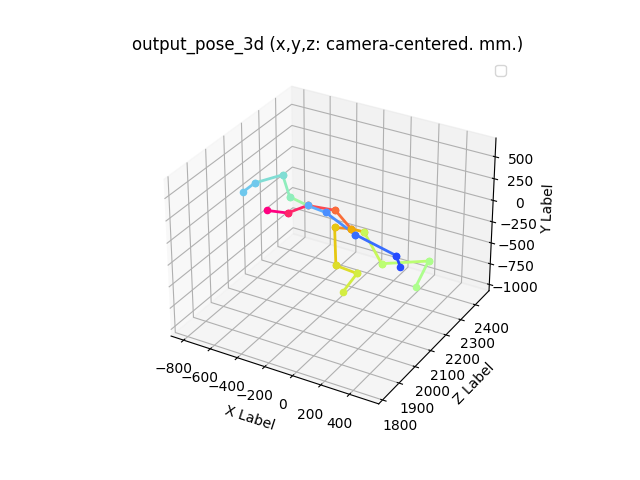
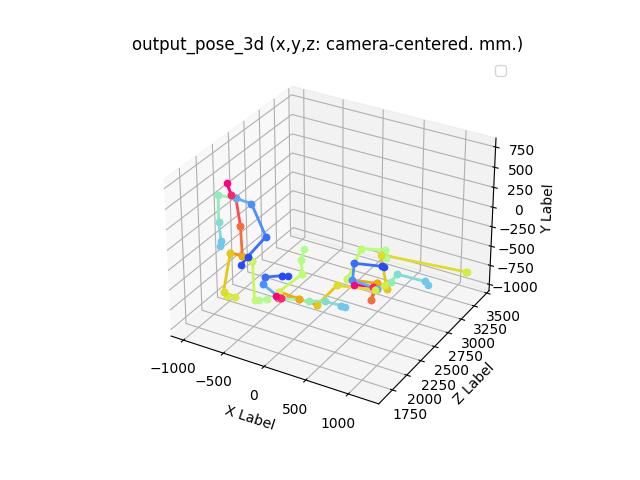
replaced detectron2 model with torchvision model, now much faster wow

Changed region(s): [[0.25, 0.1875, 0.8438, 0.9062], [0.375, 0.8125, 0.5625, 0.9062], [0.25, 0.75, 0.375, 0.8125]]

diff --git a/faster_rcnn_example.py b/faster_rcnn_example.py
@@ -1,12 +1,5 @@
 import cv2
-# import mediapipe as mp
-
-import detectron2
-from detectron2 import model_zoo
-from detectron2.engine import DefaultPredictor
-from detectron2.config import get_cfg
-from detectron2.utils.visualizer import Visualizer
-from detectron2.data import MetadataCatalog, DatasetCatalog
+import mediapipe as mp
 
 import math
 import time
@@ -31,7 +24,6 @@ from posenet.main.config import cfg as posenet_cfg
 from posenet.main.model import get_pose_net 
 from posenet.data.dataset import generate_patch_image
 from posenet.common.utils.pose_utils import process_bbox, pixel2cam
-from posenet.common.utils.vis import vis_keypoints, vis_3d_multiple_skeleton, vis_3d_multiple_skeleton_no_show_but_savefig
 
 import matplotlib.pyplot as plt
 
@@ -45,28 +37,31 @@ from rootnet.main.model import get_pose_net as get_root_net
 from rootnet.common.utils.pose_utils import process_bbox as rootnet_process_bbox
 from rootnet.data.dataset import generate_patch_image as rootnet_generate_patch_image
 
+import torchvision
 
+from posenet.common.utils.vis import vis_keypoints, vis_3d_multiple_skeleton, vis_3d_multiple_skeleton_no_show_but_savefig
+
+
+
+# import tensorflow_hub as hub
+# import tensorflow as tf
 
 def main():
     """
     Camera Distance-aware Top-down Approach for 3D Multi-person PoseEstimation from a Single RGB Image
     """
 
+    
 
-    model_yaml = "COCO-Detection/faster_rcnn_R_50_FPN_1x.yaml"
+    device = torch.device('cuda') if torch.cuda.is_available() else torch.device('cpu')
+    detector_model = torchvision.models.detection.fasterrcnn_mobilenet_v3_large_320_fpn(pretrained=True, pretrained_backbone=True)
+    detector_model.eval().to(device)
 
-    score_threshold = 0.65
+    detector_score_threshold = 0.8
+    detector_transform = transforms.Compose([
+        transforms.ToTensor(),
+    ])
 
-    bbox_cfg = get_cfg()   # get a fresh new config
-    bbox_cfg.merge_from_file(model_zoo.get_config_file(model_yaml))
-    bbox_cfg.MODEL.ROI_HEADS.SCORE_THRESH_TEST = score_threshold  # set threshold for this model
-    bbox_cfg.MODEL.WEIGHTS = model_zoo.get_checkpoint_url(model_yaml)
-    predictor = DefaultPredictor(bbox_cfg)
-
-
-    class_label_names = MetadataCatalog.get(bbox_cfg.DATASETS.TRAIN[0]).thing_classes
-
-    # python demo.py --gpu 0 --test_epoch 24
 
 
     def parse_args():
@@ -111,6 +106,7 @@ def main():
     model.load_state_dict(ckpt['network'])
     model.eval()
 
+
     # snapshot load rootnet
     model_path_rootnet = rootnet_path + '/demo/snapshot_%d.pth.tar' % int(18)
     assert osp.exists(model_path_rootnet), 'Cannot find model at ' + model_path_rootnet
@@ -141,34 +137,32 @@ def main():
     cap = cv2.VideoCapture(0)
     while cap.isOpened():
         
+        # print("+++++++++++++++++")
         
         success, original_img = cap.read()
         if not success:
             print("Webcam failed somehow?")
             continue
 
+
+        whole_time = time.time()
+
         # get bboxes
         boxes_time = time.time()
         
-        outputs = predictor(original_img)
-        output_fields = outputs['instances'].get_fields()
-        pred_boxes = output_fields['pred_boxes']
-        pred_scores = output_fields['scores']
-        pred_classes = output_fields['pred_classes'].cpu().numpy()
-        human_pred_boxes = pred_boxes[pred_classes==0]
 
-        print("boxes_time", time.time() - boxes_time)
-        
+        model_input = detector_transform(original_img).unsqueeze(0).to(device)
+        outputs = detector_model(model_input)
+    
+        pred_scores = outputs[0]['scores'].cpu().detach().numpy()
+        pred_bboxes = outputs[0]['boxes'].cpu().detach().numpy()
+        bbox_list = pred_bboxes[pred_scores >= detector_score_threshold]
 
         pose_time = time.time()
 
-        bbox_list = human_pred_boxes.tensor.cpu().numpy()
 
-        # root_depth_list = [12000] * len(bbox_list)
 
-        
-        
-        
+
         # calculate roots
         person_num = len(bbox_list)
         root_depth_list = np.zeros(person_num)
@@ -188,7 +182,7 @@ def main():
 
 
 
-        assert len(bbox_list) == len(root_depth_list)
+        # assert len(bbox_list) == len(root_depth_list)
   
 
         if person_num < 1:
@@ -196,13 +190,9 @@ def main():
 
 
 
-
-
-
-
         # for each cropped and resized human image, forward it to PoseNet
-        output_pose_2d_list = []
-        output_pose_3d_list = []
+        output_pose_2d = np.zeros((person_num, joint_num, 2))
+        output_pose_3d = np.zeros((person_num, joint_num, 3))
         for n in range(person_num):
             bbox = process_bbox(np.array(bbox_list[n]), original_img_width, original_img_height)
             img, img2bb_trans = generate_patch_image(original_img, bbox, False, 1.0, 0.0, False) 
@@ -219,56 +209,19 @@ def main():
             pose_3d_xy1 = np.concatenate((pose_3d[:,:2], np.ones_like(pose_3d[:,:1])),1)
             img2bb_trans_001 = np.concatenate((img2bb_trans, np.array([0,0,1]).reshape(1,3)))
             pose_3d[:,:2] = np.dot(np.linalg.inv(img2bb_trans_001), pose_3d_xy1.transpose(1,0)).transpose(1,0)[:,:2]
-            output_pose_2d_list.append(pose_3d[:,:2].copy())
             
             # root-relative discretized depth -> absolute continuous depth
             pose_3d[:,2] = (pose_3d[:,2] / posenet_cfg.depth_dim * 2 - 1) * (posenet_cfg.bbox_3d_shape[0]/2) + root_depth_list[n]
             pose_3d = pixel2cam(pose_3d, focal, princpt)
-            output_pose_3d_list.append(pose_3d.copy())
+            output_pose_3d[n] = pose_3d
 
 
-        # print("pose_time"
-        visualize 2d poses
-        vis_img = original_img.copy()
-        for n in range(person_num):
-            vis_kps = np.zeros((3,joint_num))
-            vis_kps[0,:] = output_pose_2d_list[n][:,0]
-            vis_kps[1,:] = output_pose_2d_list[n][:,1]
-            vis_kps[2,:] = 1
-            vis_img = vis_keypoints(vis_img, vis_kps, skeleton)
-        cv2.imwrite('output_pose_2d.jpg', vis_img)
-        cv2.imshow('vis img', cv2.resize(vis_img, (vis_img.shape[1]*2,vis_img.shape[0]*2 )))
+        print("time:%.4f," % (time.time() - whole_time), "boxes:%.4f," % (time.time() - boxes_time), "pose:%.4f" % (time.time() - pose_time))
 
-        # visualize 3d poses
-        vis_kps = np.array(output_pose_3d_list)
-        vis_3d_multiple_skeleton_no_show_but_savefig(vis_kps, np.ones_like(vis_kps), skeleton, 'output_pose_3d (x,y,z: camera-centered. mm.)')
-
-        vis_img = cv2.imread("poses.png")[:,:,::-1]
-
-
-        cv2, time.time() - pose_time)        
+        cv2.imwrite("frame.jpg", original_img)
+        np.save("result3d.npy", output_pose_3d)
         
-        # # visualize 2d poses
-        vis_img = original_img.copy()
-        for n in range(person_num):
-            vis_kps = np.zeros((3,joint_num))
-            vis_kps[0,:] = output_pose_2d_list[n][:,0]
-            vis_kps[1,:] = output_pose_2d_list[n][:,1]
-            vis_kps[2,:] = 1
-            vis_img = vis_keypoints(vis_img, vis_kps, skeleton)
-        cv2.imwrite('output_pose_2d.jpg', vis_img)
-        cv2.imshow('vis img', cv2.resize(vis_img, (vis_img.shape[1]*2,vis_img.shape[0]*2 )))
 
-        # visualize 3d poses
-        vis_kps = np.array(output_pose_3d_list)
-        vis_3d_multiple_skeleton_no_show_but_savefig(vis_kps, np.ones_like(vis_kps), skeleton, 'output_pose_3d (x,y,z: camera-centered. mm.)')
-
-        vis_img = cv2.imread("poses.png")[:,:,::-1]
-
-
-        cv2.imshow("poses und so", cv2.resize(vis_img, (vis_img.shape[1]*2,vis_img.shape[0]*2)))
-        if cv2.waitKey(1) & 0xFF == 27:
-            break
     cap.release()
 
 

diff --git a/vis_poses.py b/vis_poses.py
@@ -1,0 +1,88 @@
+import cv2
+import mediapipe as mp
+
+import detectron2
+from detectron2 import model_zoo
+from detectron2.engine import DefaultPredictor
+from detectron2.config import get_cfg
+from detectron2.utils.visualizer import Visualizer
+from detectron2.data import MetadataCatalog, DatasetCatalog
+
+import math
+import time
+
+import sys
+import os
+import os.path as osp
+
+import argparse
+import numpy as np
+import torch
+import torchvision.transforms as transforms
+from torch.nn.parallel.data_parallel import DataParallel
+import torch.backends.cudnn as cudnn
+
+posenet_path = os.getcwd() + "/posenet"
+sys.path.insert(0, osp.join(posenet_path, 'main'))
+sys.path.insert(0, osp.join(posenet_path, 'data'))
+sys.path.insert(0, osp.join(posenet_path, 'common'))
+
+from posenet.main.config import cfg as posenet_cfg
+from posenet.main.model import get_pose_net 
+from posenet.data.dataset import generate_patch_image
+from posenet.common.utils.pose_utils import process_bbox, pixel2cam
+
+import matplotlib.pyplot as plt
+
+
+rootnet_path = os.getcwd() + "/rootnet"
+sys.path.insert(0, osp.join(rootnet_path, 'main'))
+sys.path.insert(0, osp.join(rootnet_path, 'data'))
+sys.path.insert(0, osp.join(rootnet_path, 'common'))
+from rootnet.main.config import cfg as rootnet_cfg
+from rootnet.main.model import get_pose_net as get_root_net
+from rootnet.common.utils.pose_utils import process_bbox as rootnet_process_bbox
+from rootnet.data.dataset import generate_patch_image as rootnet_generate_patch_image
+
+import torchvision
+
+from posenet.common.utils.vis import vis_keypoints, vis_3d_multiple_skeleton, vis_3d_multiple_skeleton_no_show_but_savefig
+
+skeleton = ( (0, 16), (16, 1), (1, 15), (15, 14), (14, 8), (14, 11), (8, 9), (9, 10), (10, 19), (11, 12), (12, 13), (13, 20), (1, 2), (2, 3), (3, 4), (4, 17), (1, 5), (5, 6), (6, 7), (7, 18) )
+joint_num = 21
+import time
+
+while True:
+    time.sleep(0.05)
+    try:
+        
+        output_pose_3d = np.load("result3d.npy")
+        print(output_pose_3d.shape)
+
+        output_pose_2d = output_pose_3d[:,:,:2]
+
+        person_num = output_pose_3d.shape[0]
+
+        # visualize 2d poses
+        vis_img = cv2.imread("frame.jpg")
+        for n in range(person_num):
+            vis_kps = np.zeros((3,joint_num))
+            vis_kps[0,:] = output_pose_2d[n][:,0]
+            vis_kps[1,:] = output_pose_2d[n][:,1]
+            vis_kps[2,:] = 1
+            vis_img = vis_keypoints(vis_img, vis_kps, skeleton)
+        cv2.imshow('vis img', cv2.resize(vis_img, (vis_img.shape[1]*2,vis_img.shape[0]*2 )))
+
+        # # visualize 3d poses
+        # vis_kps = np.array(output_pose_3d)
+        # vis_3d_multiple_skeleton_no_show_but_savefig(vis_kps, np.ones_like(vis_kps), skeleton, 'output_pose_3d (x,y,z: camera-centered. mm.)')
+
+
+        # vis_img = cv2.imread("poses.png")[:,:,::-1]
+
+
+        # cv2.imshow("poses und so", cv2.resize(vis_img, (vis_img.shape[1]*2,vis_img.shape[0]*2)))
+        if cv2.waitKey(1) & 0xFF == 27:
+            break
+    except Exception:
+        print("wtf")
